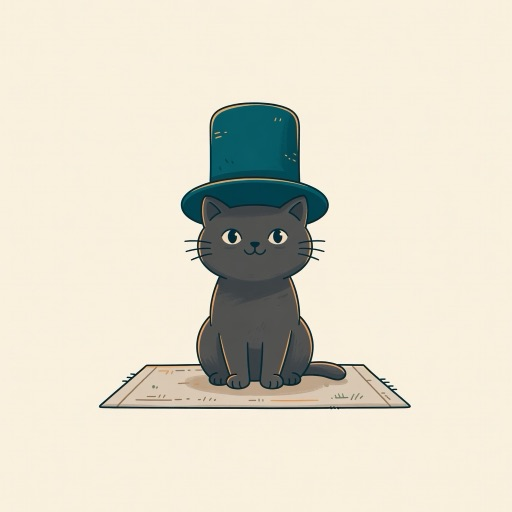
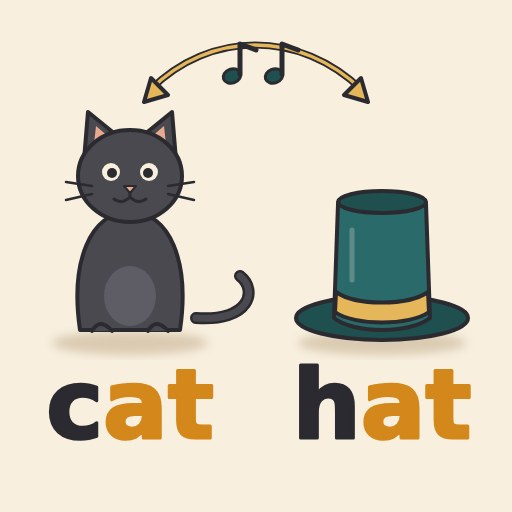
Spellbright 21a: iPhone menu fit, lower adult bars, About this device, new rhyme picture

diff --git a/site/js/device-view.js b/site/js/device-view.js
@@ -1,0 +1,93 @@
+// SB5 D2: "About this device" (#/device). A plain page of the numbers the layout uses, so Ron can calibrate on a real phone: what the page sees
+// (sizes, insets, the bottom reserve) with a red line drawn at the reserve and a ruler on the right edge (ticks every 50 px, counted from the bottom of the page).
+// No inline script, no style attribute in the markup: the ruler's ticks are set through the DOM (allowed by the strict CSP); the red line is pure CSS.
+const esc = (s) => String(s).replace(/[&<>"]/g, (c) => ({ '&': '&amp;', '<': '&lt;', '>': '&gt;', '"': '&quot;' }[c]));
+
+/** The numbers, as [label, value] pairs. `env` is the window (injectable for a test). */
+export function deviceRows(env) {
+  const w = env || window;
+  const html = w.document.documentElement;
+  const cs = w.getComputedStyle(html);
+  const v = (k) => String(cs.getPropertyValue(k) || '').trim() || '(not set)';
+  const vv = w.visualViewport;
+  const nav = w.navigator || {};
+  const det = w.sbDevice && w.sbDevice.detect ? w.sbDevice.detect({ ua: nav.userAgent, maxTouchPoints: nav.maxTouchPoints, standalone: !!nav.standalone || (w.matchMedia ? w.matchMedia('(display-mode: standalone)').matches : false) }) : {};
+  const r = (n) => (typeof n === 'number' ? String(Math.round(n * 100) / 100) : '?');
+  const scr = w.screen || {};
+  return [
+    ['Browser string', nav.userAgent || '?'],
+    ['Detected system', (html.getAttribute('data-os') || det.os || '?')],
+    ['Detected browser', (html.getAttribute('data-browser') || det.browser || '?') + (det.iosVersion ? ' (iOS ' + det.iosVersion + ')' : '')],
+    ['Home-screen app', html.getAttribute('data-standalone') || '?'],
+    ['Page size (inner)', r(w.innerWidth) + ' x ' + r(w.innerHeight)],
+    ['Visible size (visual viewport)', vv ? r(vv.width) + ' x ' + r(vv.height) : 'not available'],
+    ['Visual viewport top offset', vv ? r(vv.offsetTop) : 'not available'],
+    ['Screen size', r(scr.width) + ' x ' + r(scr.height)],
+    ['Pixel ratio', r(w.devicePixelRatio)],
+    ['Inset top', v('--sat')],
+    ['Inset right', v('--sar')],
+    ['Inset bottom', v('--sab')],
+    ['Inset left', v('--sal')],
+    ['Bottom reserve (red line)', v('--bottom-reserve')],
+    ['Top bar height', v('--head-h')],
+    ['Room class (data-h)', html.getAttribute('data-h') || '?'],
+    ['Orientation', html.getAttribute('data-orient') || '?'],
+  ];
+}
+
+export const rowsText = (rows) => rows.map((x) => x[0] + ': ' + x[1]).join('\n');
+
+export function devicePage(main) {
+  const doc = document;
+  main.innerHTML = '<section class="wrap page prose devpage" data-device-page>'
+    + '<div class="pagehead"><a class="btn btn--ghost devpage__back" href="#/" data-devback>Back</a><h1>About this device</h1></div>'
+    + '<p class="muted">These are the sizes this page sees on your phone. If something sits in the wrong place, press the button and send us the numbers. '
+    + 'The red line shows where the page thinks the browser’s bottom bar starts. The ruler on the right counts up from the bottom in steps of 50.</p>'
+    + '<dl class="devpage__list" data-devrows></dl>'
+    + '<div class="devpage__actions"><button type="button" class="btn btn--primary" data-devcopy>Copy these numbers</button><p class="small muted" role="status" data-devmsg></p></div>'
+    + '<pre class="devpage__text" data-devtext tabindex="0"></pre></section>';
+  const back = main.querySelector('[data-devback]');
+  back.setAttribute('href', doc.body.classList.contains('is-adult') ? '#/grownups' : doc.body.classList.contains('is-child') ? '#/settings' : '#/');
+  const list = main.querySelector('[data-devrows]');
+  const pre = main.querySelector('[data-devtext]');
+  const msg = main.querySelector('[data-devmsg]');
+  let rows = [];
+  // the fixed red line (CSS puts it at the reserve) and the ruler
+  const line = doc.createElement('div');
+  line.className = 'devline'; line.setAttribute('aria-hidden', 'true'); line.setAttribute('data-devline', '');
+  const ruler = doc.createElement('div');
+  ruler.className = 'devruler'; ruler.setAttribute('aria-hidden', 'true'); ruler.setAttribute('data-devruler', '');
+  doc.body.append(line, ruler);
+  const draw = () => {
+    rows = deviceRows(window);
+    list.innerHTML = rows.map((x) => '<div class="devpage__row"><dt>' + esc(x[0]) + '</dt><dd>' + esc(x[1]) + '</dd></div>').join('');
+    pre.textContent = rowsText(rows);
+    const h = Math.round(window.innerHeight || 0);
+    ruler.textContent = '';
+    for (let n = 0; n <= h; n += 50) {
+      const t = doc.createElement('span');
+      t.className = 'devruler__tick';
+      t.style.bottom = n + 'px';
+      t.textContent = String(n);
+      ruler.append(t);
+    }
+  };
+  draw();
+  const onSize = () => draw();
+  window.addEventListener('resize', onSize);
+  if (window.visualViewport) window.visualViewport.addEventListener('resize', onSize);
+  main.querySelector('[data-devcopy]').addEventListener('click', async () => {
+    const text = rowsText(rows);
+    try {
+      await navigator.clipboard.writeText(text);
+      msg.textContent = 'Copied. You can paste it into a message now.';
+      return;
+    } catch (e) { /* select the text instead */ }
+    try {
+      const range = doc.createRange(); range.selectNodeContents(pre);
+      const sel = window.getSelection(); sel.removeAllRanges(); sel.addRange(range);
+      msg.textContent = 'The numbers are selected below. Press and hold, then choose Copy.';
+    } catch (e) { msg.textContent = 'Press and hold the numbers below, then choose Copy.'; }
+  });
+  return () => { window.removeEventListener('resize', onSize); if (window.visualViewport) window.visualViewport.removeEventListener('resize', onSize); line.remove(); ruler.remove(); };
+}

diff --git a/site/css/device.css b/site/css/device.css
@@ -134,3 +134,44 @@ html:is([data-h="xs"], [data-h="s"]) .practice { gap: 8px; }
 @media (min-width: 601px) and (orientation: portrait) {
   html[data-os="ipados"] body main > section.wrap.page.spellpage, html[data-os="ipados"] body main > section.wrap.page.play, html[data-os="ipados"] body main > section.wrap.page.game { padding-bottom: var(--bottom-reserve); }
 }
+
+/* ---- SB5 D2 (21 Nov): sheets that fit, adult bars that sit just above the reserve, and the About this device page ---- */
+/* Menu, things-waiting and games sheets: on a phone with little room (data-h s and xs) the rows are compact so all of them show (xs: all but the last, which scrolls into view). Subtitles stay. */
+html:is([data-h="xs"], [data-h="s"]) :is(.menusheet, .thingssheet, .gamesheet) .sheet__rows { gap: 6px; }
+html:is([data-h="xs"], [data-h="s"]) :is(.menusheet, .thingssheet, .gamesheet) .sheetrow { min-height: 52px; padding: 4px 12px; gap: 10px; }
+html:is([data-h="xs"], [data-h="s"]) :is(.menusheet, .thingssheet, .gamesheet) .sheetrow:not(.sheetrow--quiet) { border-radius: 16px; }
+html:is([data-h="xs"], [data-h="s"]) :is(.menusheet, .thingssheet, .gamesheet) .sheetrow--quiet { min-height: 52px; }
+html:is([data-h="xs"], [data-h="s"]) :is(.menusheet, .thingssheet, .gamesheet) .sheetrow__ico { width: 32px; height: 32px; }
+html:is([data-h="xs"], [data-h="s"]) :is(.menusheet, .thingssheet, .gamesheet) .sheetrow__ico svg { width: 18px; height: 18px; }
+html:is([data-h="xs"], [data-h="s"]) :is(.menusheet, .thingssheet, .gamesheet) .sheetrow__text b { font-size: 1.02rem; }
+html:is([data-h="xs"], [data-h="s"]) :is(.menusheet, .thingssheet, .gamesheet) .sheetrow__text span { font-size: 0.85rem; }
+html:is([data-h="xs"], [data-h="s"]) .sheet__head { margin-bottom: 6px; }
+html:is([data-h="xs"], [data-h="s"]) .sheet__grip { margin-bottom: 4px; }
+html[data-h="xs"] .sheet { padding-top: 6px; }
+
+/* Grown-up sticky bars: the button ends at the reserve line (the padding below it is the reserve); on a phone the line over the button is one compact line. */
+@media (max-width: 480px) {
+  .gu .gh-bar { padding-top: 6px; gap: 4px; }
+  .gu .gh-bar .btn { min-height: 48px; }
+  .gu .gh-bar__line { font-size: 0.85rem; line-height: 1.2; white-space: nowrap; overflow: hidden; text-overflow: ellipsis; }
+  .gu .gu-obar { padding-top: 6px; }
+  .gu .gu-obar .btn { min-height: 48px; }
+  .st-bar { padding-top: 6px; gap: 2px; }
+  .st-bar .btn { min-height: 48px; }
+  .st-bar__line { font-size: 0.85rem; line-height: 1.2; }
+}
+
+/* About this device (#/device) */
+.devlink { margin: 12px 0 0; text-align: center; }
+.devlink a { display: inline-flex; align-items: center; min-height: 44px; padding: 0 12px; color: var(--muted); }
+.devpage__list { margin: 12px 0; display: grid; gap: 0; }
+.devpage__row { display: flex; flex-wrap: wrap; justify-content: space-between; gap: 2px 12px; padding: 8px 0; border-bottom: 1px solid var(--line); }
+.devpage__row dt { color: var(--muted); }
+.devpage__row dd { margin: 0; font-weight: 600; overflow-wrap: anywhere; text-align: right; }
+.devpage__actions { display: grid; gap: 6px; margin: 12px 0; }
+.devpage__actions .btn { min-height: 44px; }
+.devpage__text { margin: 0 0 12px; padding: 10px; font-size: 0.8rem; white-space: pre-wrap; overflow-wrap: anywhere; background: var(--surface); border: 1px solid var(--line); border-radius: 12px; user-select: text; -webkit-user-select: text; }
+.devpage { padding-right: 44px; }
+.devline { position: fixed; left: 0; right: 0; bottom: var(--bottom-reserve); height: 0; border-top: 3px solid #d00; z-index: 2147483000; pointer-events: none; }
+.devruler { position: fixed; top: 0; bottom: 0; right: 0; width: 40px; z-index: 2147483001; pointer-events: none; background: rgba(255, 255, 255, 0.55); border-left: 1px solid #d00; }
+.devruler__tick { position: absolute; right: 0; width: 100%; height: 13px; border-bottom: 1px solid #d00; font: 600 11px/1 system-ui, sans-serif; color: #900; text-align: left; padding-left: 3px; box-sizing: border-box; }

diff --git a/tests/device-sb5.test.js b/tests/device-sb5.test.js
@@ -86,9 +86,10 @@ test('standalone is passed through', () => {
 
 test('bottom reserve per profile', () => {
   const r = (k, o, sab, x) => D.reserveFor(d(k, x), o, sab);
-  assert.equal(r('iphoneSafari26', 'portrait', 34), 112, 'the floating bar: 78 + inset');
-  assert.equal(r('iphoneSafari26', 'portrait', 0), 86, 'iPhone SE: 78 + at least 8');
-  assert.equal(r('iphoneSafari26', 'landscape', 21), 69);
+  assert.equal(r('iphoneSafari26', 'portrait', 34), 84, 'the floating bar: 84 in total, the 78 spans the inset (no double count)');
+  assert.equal(r('iphoneSafari26', 'portrait', 0), 84, 'iPhone SE: the same 84');
+  assert.equal(r('iphoneSafari26', 'landscape', 21), 48, 'landscape: max(48, inset + 20)');
+  assert.equal(r('iphoneSafari26', 'landscape', 34), 54);
   assert.equal(r('iphoneSafari26', 'portrait', 34, { standalone: true }), 34, 'home-screen app: the inset only');
   assert.equal(r('iphoneSafari14', 'portrait', 34), 46, 'old Safari: toolbar outside the page');
   for (const k of ['iphoneChrome', 'iphoneFirefox', 'iphoneEdge', 'iphoneWebview']) assert.equal(r(k, 'portrait', 34), 46, k);
@@ -141,4 +142,19 @@ test('the grown-up name is read from the device cache when the words value has n
   assert.match(C.setByLine('g.p1', C.setupWithBy({}, '')), /grown-up/i);
   assert.deepEqual(C.setupWithBy({ by: { n: 'Mum', at: 9 } }, 'Dad'), { by: { n: 'Mum', at: 9 } }, 'a name in the setup wins');
   assert.deepEqual(C.setupWithBy(undefined, null), {});
+});
+
+// ---- D2: the About this device page, its link, the shell, the reserve comment -----------------------------------------------------
+import { rowsText } from '../site/js/device-view.js';
+test('D2: #/device is routed, safe, in the shell, linked from Settings (child) and the account panel (adult)', () => {
+  const rd = (p) => readFileSync(SITE + p, 'utf8');
+  assert.match(rd('js/app.js'), /\['device', devicePage\]/);
+  assert.match(rd('js/test-guard.js'), /device: 'safe'/);
+  assert.match(rd('sw.js'), /'js\/device-view\.js'/);
+  assert.match(rd('js/child-views.js'), /href="#\/device" data-devicelink>About this device/);
+  assert.match(rd('js/adult-chrome.js'), /href="#\/device" data-devicelink>About this device/);
+  const css = rd('css/device.css');
+  assert.match(css, /\.devline \{[^}]*bottom: var\(--bottom-reserve\)/);
+  assert.doesNotMatch(rd('js/device-view.js'), /style="/, 'no style attribute in the markup (strict CSP)');
+  assert.equal(rowsText([['A', '1'], ['B', '2']]), 'A: 1\nB: 2');
 });

diff --git a/site/css/grownups.css b/site/css/grownups.css
@@ -550,7 +550,7 @@
 .gu .gh-help b { color: var(--text); }
 
 /* the sticky bar: one main button, a helper line above it, the phone's band under it */
-.gu .gh-bar { position: sticky; bottom: 0; z-index: 3; margin: auto -16px 0; padding: 10px 16px max(var(--gh-safe), calc(12px + var(--sab))); background: var(--bg); border-top: 2px solid var(--line); display: grid; gap: 6px; }
+.gu .gh-bar { position: sticky; bottom: 0; z-index: 3; margin: auto -16px 0; padding: 10px 16px max(var(--gh-safe), calc(16px + var(--sab))); background: var(--bg); border-top: 2px solid var(--line); display: grid; gap: 6px; }
 .gu .gh-bar .btn { width: 100%; max-width: none; min-height: 52px; justify-content: center; }
 .gu .gh-bar__line { order: -1; margin: 0; text-align: center; color: var(--muted); font-size: 0.95rem; overflow-wrap: anywhere; }
 .gu .gh-bar--two { gap: 4px; }
@@ -728,7 +728,7 @@
 .gu .gu-ocard dt { color: var(--muted); font-size: 0.92rem; }
 .gu .gu-ocard dd { margin: 0; overflow-wrap: anywhere; }
 .gu .gu-overview--table { display: none; }
-.gu .gu-obar { position: sticky; bottom: 0; z-index: 3; margin: auto -16px 0; padding: 10px 16px max(var(--gh-safe), calc(12px + var(--sab))); background: var(--bg); border-top: 2px solid var(--line); }
+.gu .gu-obar { position: sticky; bottom: 0; z-index: 3; margin: auto -16px 0; padding: 10px 16px max(var(--gh-safe), calc(16px + var(--sab))); background: var(--bg); border-top: 2px solid var(--line); }
 .gu .gu-obar .btn { width: 100%; min-height: 52px; justify-content: center; }
 @media (min-width: 700px) {
   .gu .gu-ocards { display: none; }

diff --git a/site/js/device.js b/site/js/device.js
@@ -72,7 +72,10 @@
     var b = Math.max(0, Number(sab) || 0);
     var land = orient === 'landscape';
     if (d.os === 'ios') {
-      if (d.browser === 'safari' && !d.standalone && d.iosVersion >= 15) return land ? 48 + b : 78 + Math.max(b, 8); // the floating bottom bar overlays the page (its top is about 81 px above the screen's foot on an iPhone Air, whatever the inset reads)
+      // The floating bottom bar overlays the page. Measured on Ron's iPhone Air (Safari 26, screenshot 21 Nov): the bar's top is about 80 px above the screen's foot,
+      // and that foot INCLUDES the 34 px home-indicator strip (the bar sits inside it, it does not stack on top of it). The old 78 + inset (= 112) counted the
+      // strip twice and left about 30 px blank (about 60 px with the sticky bar's own padding). So: 84 in total, whatever the inset reads. Landscape: a thinner bar.
+      if (d.browser === 'safari' && !d.standalone && d.iosVersion >= 15) return land ? Math.max(48, b + 20) : 84;
       if (d.browser === 'safari' && d.standalone) return b;
       return b + 12; // Chrome, Firefox, Edge, a web view, an old Safari: the toolbar is outside the page
     }

diff --git a/site/js/test-guard.js b/site/js/test-guard.js
@@ -23,7 +23,7 @@ export const RULES = {
   ':yearId/:slug': 'chapter', ':yearId/:slug/study': 'chapter', ':yearId/:slug/study/:word': 'chapter',
   ':yearId/:slug/quick': 'chapter', ':yearId/:slug/quick/:word': 'chapter', ':yearId/:slug/practice': 'chapter', ':yearId/:slug/test': 'chapter',
   'words/new': 'any', 'words/progress': 'any', 'words/g/:gid/edit': 'any',
-  'words/g/:gid': 'first', 'words/g/:gid/test': 'safe', 'words/g/:gid/path': 'safe', settings: 'safe', look: 'safe',
+  'words/g/:gid': 'first', 'words/g/:gid/test': 'safe', 'words/g/:gid/path': 'safe', settings: 'safe', look: 'safe', device: 'safe',
   'words/g/:gid/spell/:n': 'group', 'words/g/:gid/study/:step': 'group', 'words/g/:gid/study/:step/:n': 'group', 'words/g/:gid/games': 'group', 'words/g/:gid/game/:game': 'group',
   grownups: 'adult', 'grownups/stories': 'adult', 'grownups/plan': 'adult', 'grownups/child/:cid/week/:gid': 'adult', 'grownups/child/:cid': 'adult', 'grownups/child/:cid/plan': 'adult', 'grownups/child/:cid/plan/:gid': 'adult',
   // SB4-WP5 rules

diff --git a/site/js/app.js b/site/js/app.js
@@ -15,6 +15,7 @@ import { home } from './room.js';
 import { useWho, kind, isChild, isKnownChild, isAdult, ADULT_KEY } from './who.js';
 import { applyAdult, useAdultTools } from './adult-chrome.js';
 import * as CV from './child-views.js';
+import { devicePage } from './device-view.js'; // SB5 D2: About this device
 import { pathPage, settingsPage, applyChrome, wireChrome, useChildTools, closeMenu } from './child-views.js';
 import * as GU from './grownups-views.js';
 import * as SU from './setup-views.js'; // SB4-WP6
@@ -94,6 +95,7 @@ const ROUTES = [
   ['words/g/:gid/game/:game', GV.oneGame],
   ['words/g/:gid/path', pathPage],
   ['settings', settingsPage],
+  ['device', devicePage], // SB5 D2: About this device (the sizes this phone gives the page)
   ['look', later(CV, 'lookVoicePage')], // SB5 (R4): Look and voice, a child's page
   ['grownups', GU.grownups],
   ['grownups/stories', storyReview],

diff --git a/site/js/child-views.js b/site/js/child-views.js
@@ -450,7 +450,8 @@ export function settingsPage(main) {
     + '<p><a href="#/about"><b>For parents</b><br><span class="muted small">How Spellbright works</span></a></p>'
     + '<p><a href="https://waystead.co.uk"><b>Waystead</b><br><span class="muted small">Who makes Spellbright</span></a></p>'
     + '<p><a href="../"><b>More games</b><br><span class="muted small">All Waystead games</span></a></p>'
-    + '<p class="small muted">Some words and facts come from UK Government material under the Open Government Licence v3.0.</p></div></details></section>';
+    + '<p class="small muted">Some words and facts come from UK Government material under the Open Government Licence v3.0.</p></div></details>'
+    + '<p class="small devlink"><a href="#/device" data-devicelink>About this device</a></p></section>';
   menuBackLink(main);
   return () => stop();
 }

diff --git a/site/js/adult-chrome.js b/site/js/adult-chrome.js
@@ -119,7 +119,8 @@ function accountHtml() {
     + (voice ? '<div class="adultvoice" data-voicecard>' + voice + '</div>' : '<div class="adultvoice" data-voicecard hidden></div>')
     + roleRowsHtml()
     + '<ul class="adultlist adultlist--rule"><li>' + row(links.parentsHref, I.parents, 'How Spellbright works', 'For parents, teachers and tutors', ' data-parents') + '</li>'
-    + '<li>' + row(links.outHref, I.out, 'Sign out', '', ' data-signout') + '</li></ul>';
+    + '<li>' + row(links.outHref, I.out, 'Sign out', '', ' data-signout') + '</li></ul>'
+    + '<p class="small devlink"><a href="#/device" data-devicelink>About this device</a></p>';
 }
 
 /** Your role: "I use Spellbright as: Parent" and "Children see: Set by Mum", both to #/grownups/role (the change page). */

diff --git a/tests/grownups-c2.test.js b/tests/grownups-c2.test.js
@@ -227,7 +227,7 @@ test('grown-ups pages: no inline style or script, own stylesheet in the shell, a
   const sw = readFileSync(file('site/sw.js'), 'utf8');
   assert.ok(sw.includes("'css/grownups.css'"));
   assert.match(readFileSync(file('site/index.html'), 'utf8'), /css\/grownups\.css/);
-  assert.match(sw, /VERSION = 'spellbright-2026-11-20a'/);
+  assert.match(sw, /VERSION = 'spellbright-2026-11-21a'/);
   const css = readFileSync(file('site/css/grownups.css'), 'utf8').replace(/\/\*[\s\S]*?\*\//g, '');
   for (const rule of css.split('}').map((r) => r.split('{')[0].trim()).filter((s) => s && !s.startsWith('@') && !/^\d|^(from|to)/.test(s))) {
     for (const sel of rule.split(',').map((x) => x.trim())) assert.match(sel, /^\.gu|^@/, 'scoped to .gu: ' + sel);

diff --git a/tests/routes-sb5.test.js b/tests/routes-sb5.test.js
@@ -130,7 +130,7 @@ test('TR-8: every shell file exists, nothing the app needs is missing, and the n
   const index = read('site/index.html');
   for (const f of readdirSync(file('site/css')).filter((n) => n.endsWith('.css'))) assert.ok(index.includes('css/' + f), 'linked: ' + f);
   for (const f of SHELL.filter((x) => /^css\/[^/]+\.css$/.test(x))) assert.ok(index.includes(f), 'linked: ' + f);
-  assert.match(sw, /VERSION = 'spellbright-2026-11-20a'/);
+  assert.match(sw, /VERSION = 'spellbright-2026-11-21a'/);
 });
 
 test('16c devices: a new version replaces every older cache and takes over at once', () => {

diff --git a/tests/child.test.js b/tests/child.test.js
@@ -209,7 +209,7 @@ test('constraints: no inline style attribute or script in the child views, and t
   assert.match(index, /css\/child\.css/);
   const sw = readFileSync(file('site/sw.js'), 'utf8');
   for (const f of ['css/child.css', 'js/child-doc.js', 'js/child-views.js']) assert.ok(sw.includes("'" + f + "'"), f);
-  assert.match(sw, /VERSION = 'spellbright-2026-11-20a'/);
+  assert.match(sw, /VERSION = 'spellbright-2026-11-21a'/);
 });
 
 test('the keyboard stays three rows that never wrap; Delete is at least 48 px wide', () => {
